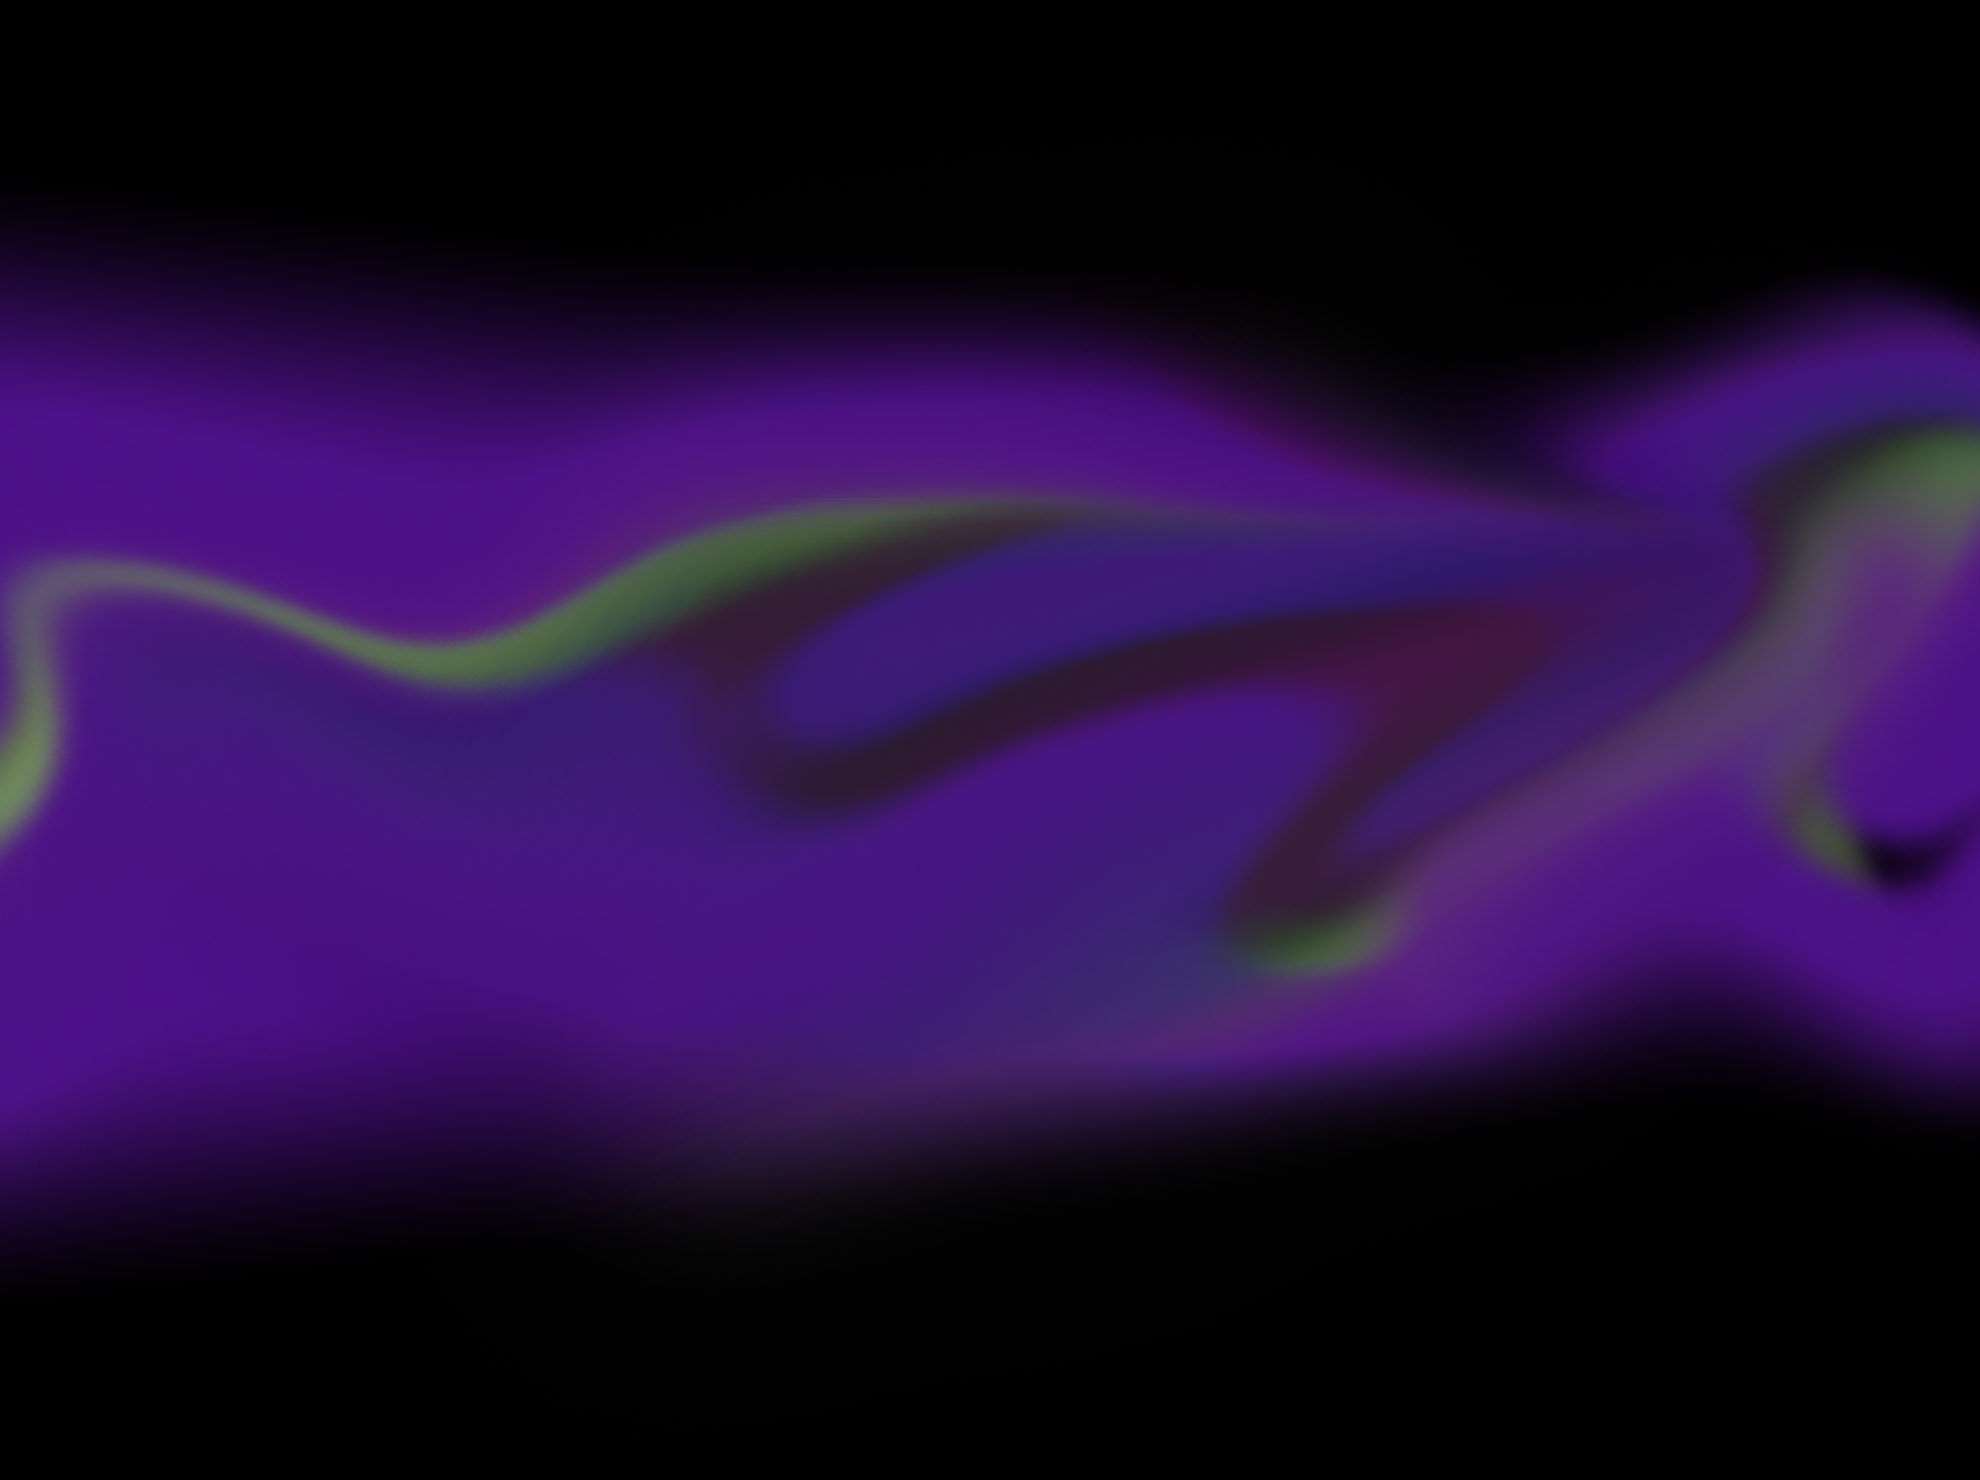
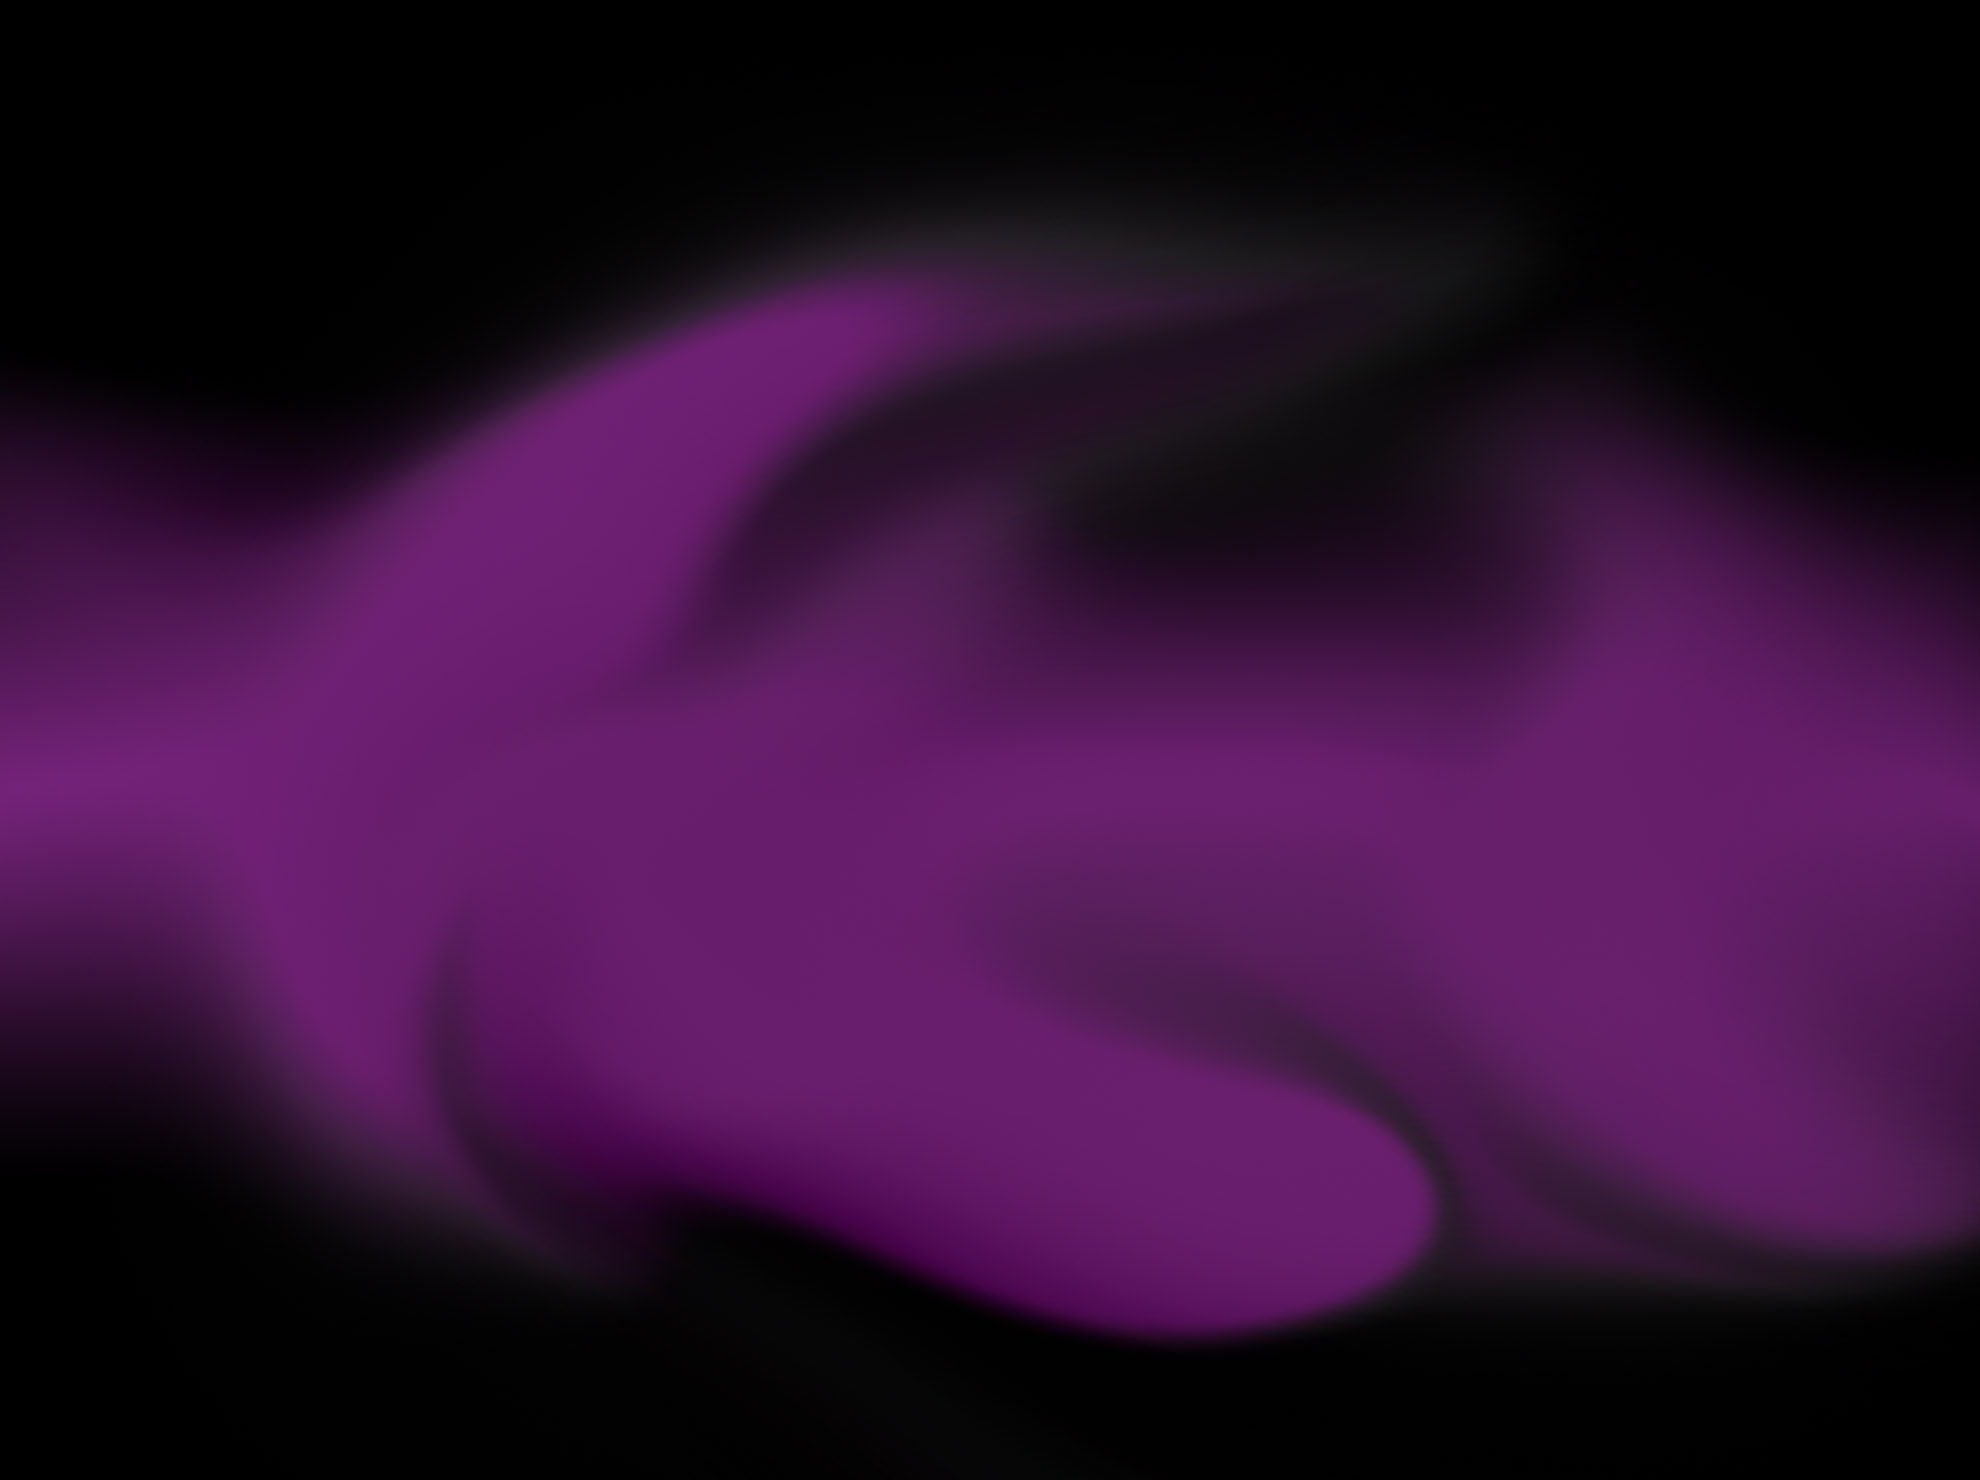
update main backgrounds

diff --git a/.history/css/main_20221205191401.scss b/.history/css/main_20221205191401.scss
@@ -44,10 +44,10 @@
     background-image: url(../images/desktop/bg-lilac-desktop.jpg);
 }
 #events {
-    background-image: url(../images/desktop/bg-purpleish-desktop.jpg);
+    background-image: url(../images/desktop/bg-cyan-desktop.jpg);
 }
 #explore {
-    background-image: url(../images/desktop/bg-cyan-desktop.jpg);
+    background-image: url(../images/desktop/bg-purpleish-desktop.jpg);
 }
 #visit {
     background-image: url(../images/desktop/bg-blue-desktop.jpg);

diff --git a/css/main.css b/css/main.css
@@ -48,11 +48,11 @@
 }
 
 #events {
-  background-image: url(../images/desktop/bg-cyan-desktop.jpg);
+  background-image: url(../images/desktop/bg-purpleish-desktop.jpg);
 }
 
 #explore {
-  background-image: url(../images/desktop/bg-green-desktop.jpg);
+  background-image: url(../images/desktop/bg-cyan-desktop.jpg);
 }
 
 #visit {

diff --git a/.history/css/main_20221205191429.scss b/.history/css/main_20221205191429.scss
@@ -47,7 +47,7 @@
     background-image: url(../images/desktop/bg-purpleish-desktop.jpg);
 }
 #explore {
-    background-image: url(../images/desktop/bg-cyan-desktop.jpg);
+    background-image: url(../images/desktop/bg-purpleish-desktop.jpg);
 }
 #visit {
     background-image: url(../images/desktop/bg-blue-desktop.jpg);
